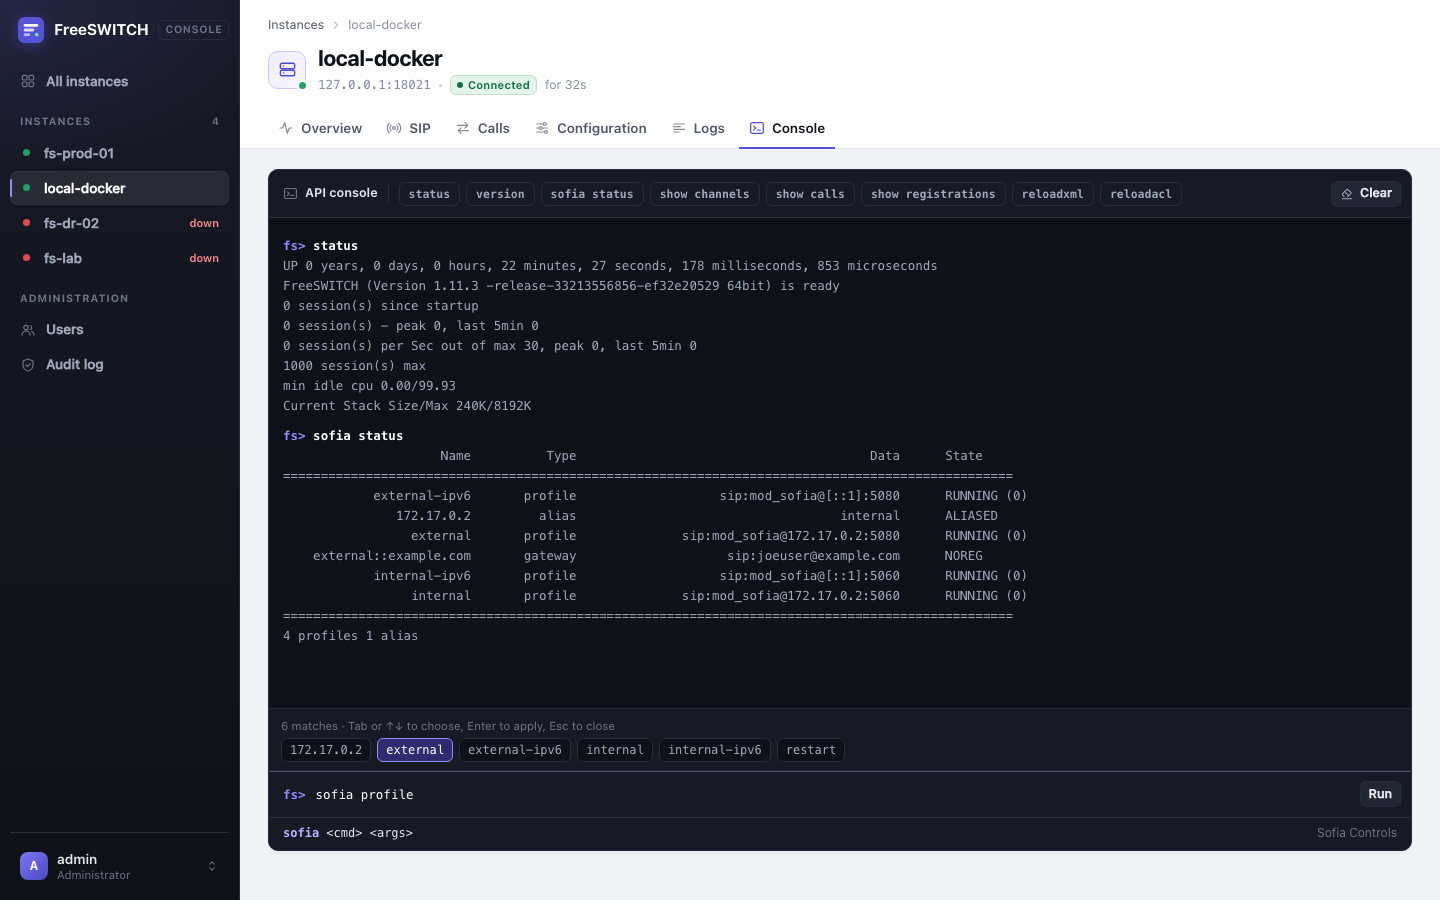
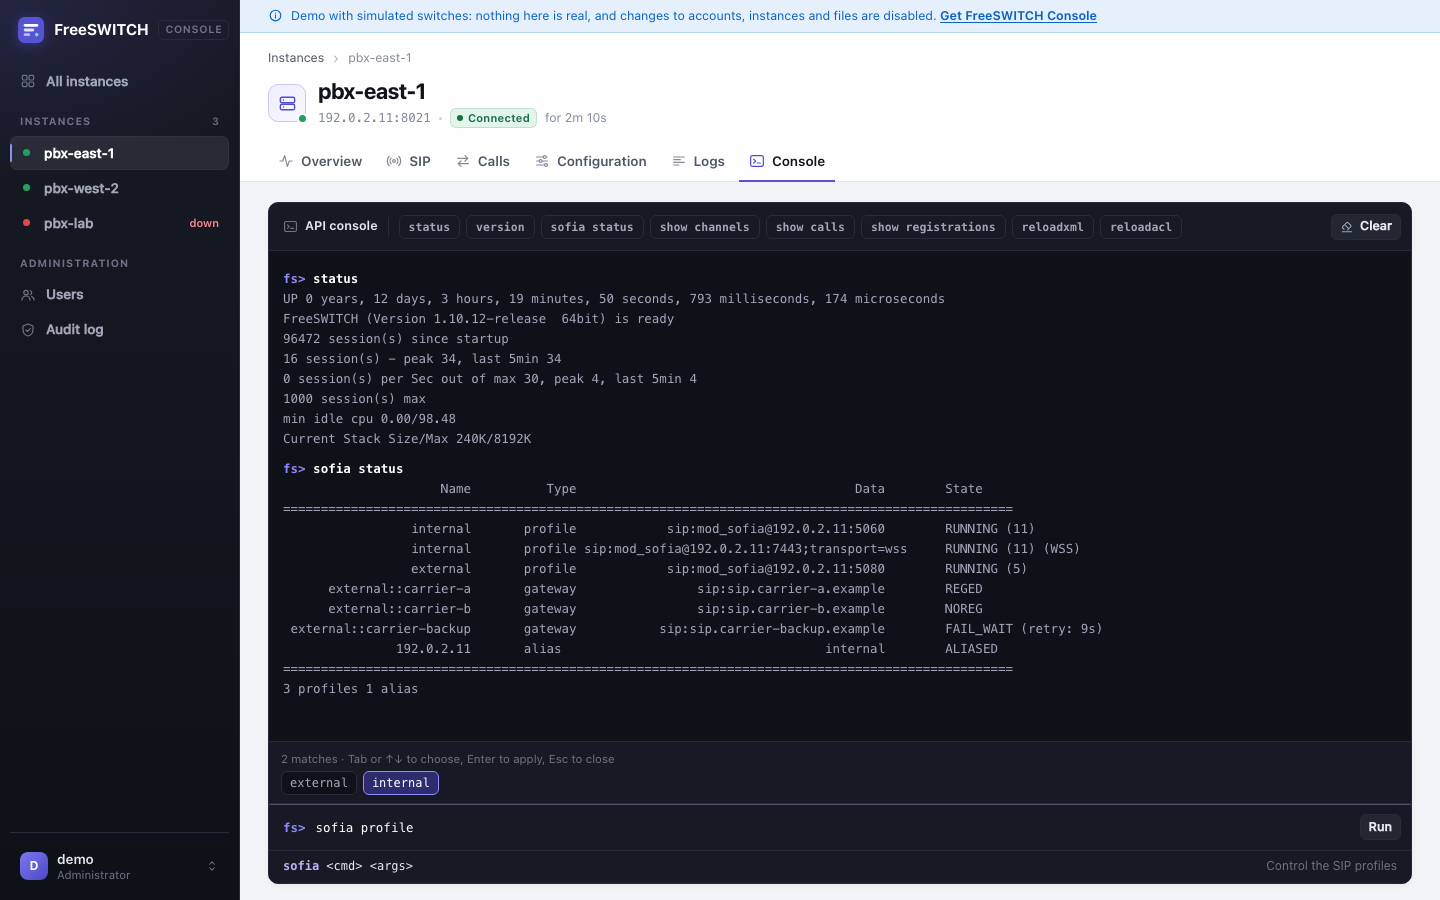
docs: demo mode, how it compares, screenshots and an animation from the demo

diff --git a/README.md b/README.md
@@ -7,7 +7,7 @@ project, not affiliated with the FreeSWITCH project or SignalWire.
 
 English | [简体中文](README.zh-CN.md)
 
-![Overview of one FreeSWITCH instance](assets/screenshots/overview.png)
+![Instances, the overview of one switch, recent hang-ups, why a call failed, and the console](assets/screenshots/demo.gif)
 
 - **Nothing to install on FreeSWITCH.** fsconsole connects to `mod_event_socket`,
   which the stock configuration already loads.
@@ -17,6 +17,14 @@ English | [简体中文](README.zh-CN.md)
 - **One binary.** Go standard library only, the web interface is embedded, no
   build step for the frontend.
 - **Many switches, one console**, in English and Simplified Chinese.
+
+**Try it without a FreeSWITCH.** Demo mode starts three simulated switches
+with calls, registrations, logs and hang-ups; nothing is saved and nothing
+real is contacted:
+
+```sh
+docker run --rm -p 127.0.0.1:8080:8080 ghcr.io/juki/freeswitch-console -demo
+```
 
 ## What you get
 
@@ -182,6 +190,7 @@ shows them as managed by the environment and cannot change them.
 | | `FSCONSOLE_SECRET_KEY` | unset | encrypt the Event Socket passwords and agent tokens in the data file; at least 16 characters |
 | | `FSCONSOLE_ADMIN_PASSWORD` | unset | password of the managed `admin` account |
 | | `FSCONSOLE_VIEWER_PASSWORD` | unset | password of the managed `viewer` account |
+| `-demo` | `FSCONSOLE_DEMO=1` | off | demo mode: simulated switches, no sign-in, nothing saved; changes to accounts, instances and files are refused, and what a visitor changes on a simulated switch is undone after two minutes |
 | `-static` | | unset | serve the frontend from this directory instead of the embedded copy (development) |
 | `-version` | | | print the version and exit |
 
@@ -253,6 +262,14 @@ docker exec freeswitch-test fs_cli -x 'bgapi originate loopback/9196/default &pa
 The image is amd64 only; on Apple silicon add `--platform linux/amd64`. To try
 the file editor as well, mount a host directory at `/etc/freeswitch` and give
 fsconsole that path.
+
+## How it compares
+
+| | What it is | Choose it when |
+|---|---|---|
+| `fs_cli` | the command line that ships with FreeSWITCH: one switch at a time, from a shell on the host | you are on the host anyway and know the commands |
+| FusionPBX, FS PBX | complete PBX platforms: they own the configuration (database, their own dialplan and directory, a web server and PHP next to FreeSWITCH) | you are building a PBX and want the platform to manage it |
+| FreeSWITCH Console | a console for switches you already run and configure yourself: connects over the Event Socket, shows and edits what is there, keeps roles and an audit log | you operate one or many FreeSWITCH servers and want to see and change them from a browser without changing how they are set up |
 
 ## Not in scope
 
